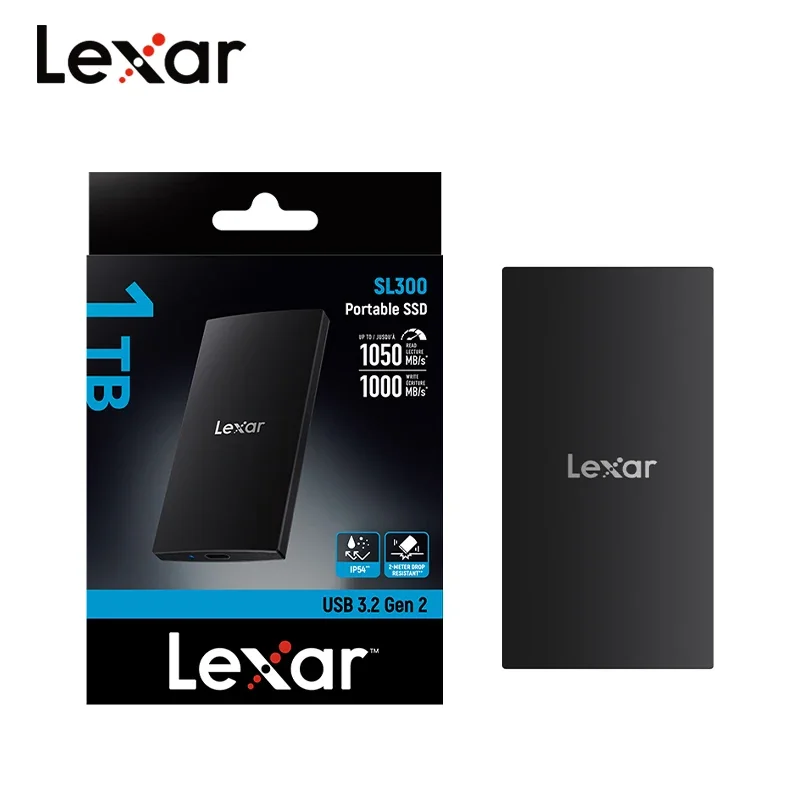
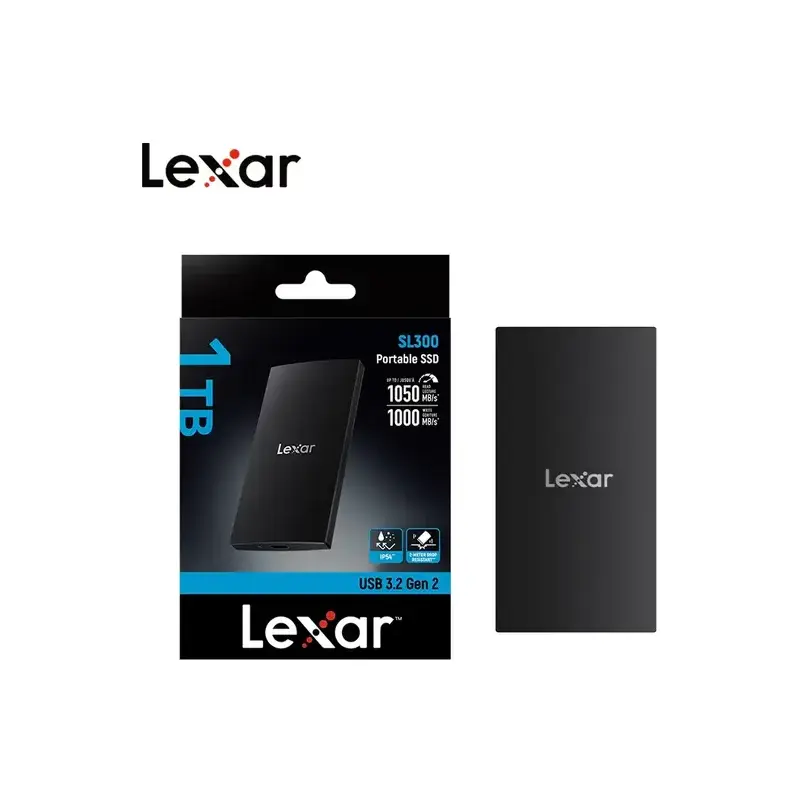
Align external SSD photo scale and position

Changed region(s): [[0.0938, 0.1875, 0.5625, 0.9062], [0.5938, 0.3125, 0.9062, 0.8438], [0.0312, 0.0312, 0.3125, 0.125]]

diff --git a/PROJECT_STATUS.md b/PROJECT_STATUS.md
@@ -1192,3 +1192,24 @@ After owner review, continue with photos for other categories. Laptops after com
 ## Электропитание: белый фон карточек (2026-11-08)
 
 В пяти страницах подкатегорий электропитания — UPS, батарей для UPS, стабилизаторов, инверторов и сетевых фильтров — добавлен локальный override .product-image{background:#fff} по образцу эталонных страниц. Данные товаров, изображения, цены, характеристики, фильтры и размеры карточек не изменялись.
+
+## Внешние SSD — выравнивание масштаба и положения (2026-11-08)
+
+Проверена фактическая категория «Внешние HDD/SSD»: 16 товаров, из них 4 внешних SSD — acc-external_storage-8 (Lexar SL260 512GB), acc-external_storage-9 (Lexar SL260 1TB), acc-external_storage-10 (Lexar SL300 2TB) и acc-external_storage-13 (Lexar SL300 1TB). Остальные HDD этой категории не изменялись.
+
+У всех четырёх SSD используется по одному основному локальному WebP без дополнительных ракурсов. CSS, JavaScript, карточки, размеры контейнеров и существующая hover-анимация .product-card:hover .product-image img { transform: scale(1.06); } не менялись.
+
+Сами изображения выровнены внутри исходных холстов без обрезки и деформации. Для каждого сохранены белый фон #FFFFFF, логотип Lexar, пропорции и исходный размер холста:
+
+- acc-external_storage-8: холст 1000×1000, основной корпус уменьшен с почти полного кадра до примерно 65% высоты;
+- acc-external_storage-9: холст 700×700, масштаб приведён примерно к 65% высоты;
+- acc-external_storage-10: холст 787×787, боковой ракурс приведён примерно к 65% высоты;
+- acc-external_storage-13: холст 800×800, композиция с упаковкой и SSD приведена примерно к 65% по большей стороне и отцентрирована.
+
+После изменения у каждого товара остаётся свободный запас по краям: при hover scale(1.06) SSD полностью помещается в области фотографии. Внутренние SSD, HDD, флешки, карты памяти, аксессуары, товары, цены, характеристики, ID/SKU, фильтры, products.json, HTML-категория и product.js не изменялись.
+
+### Проверки этапа
+
+- Проверены все 4 WebP: файлы декодируются, размеры холстов сохранены, углы остаются чистыми #FFFFFF.
+- Проверены пути images/products/acc-external_storage-8/main.webp, -9/main.webp, -10/main.webp и -13/main.webp; внешние URL не используются.
+- Проверены карточки категории и универсальные страницы product.html?id=...; hover-правило и object-fit: contain сохранены.
